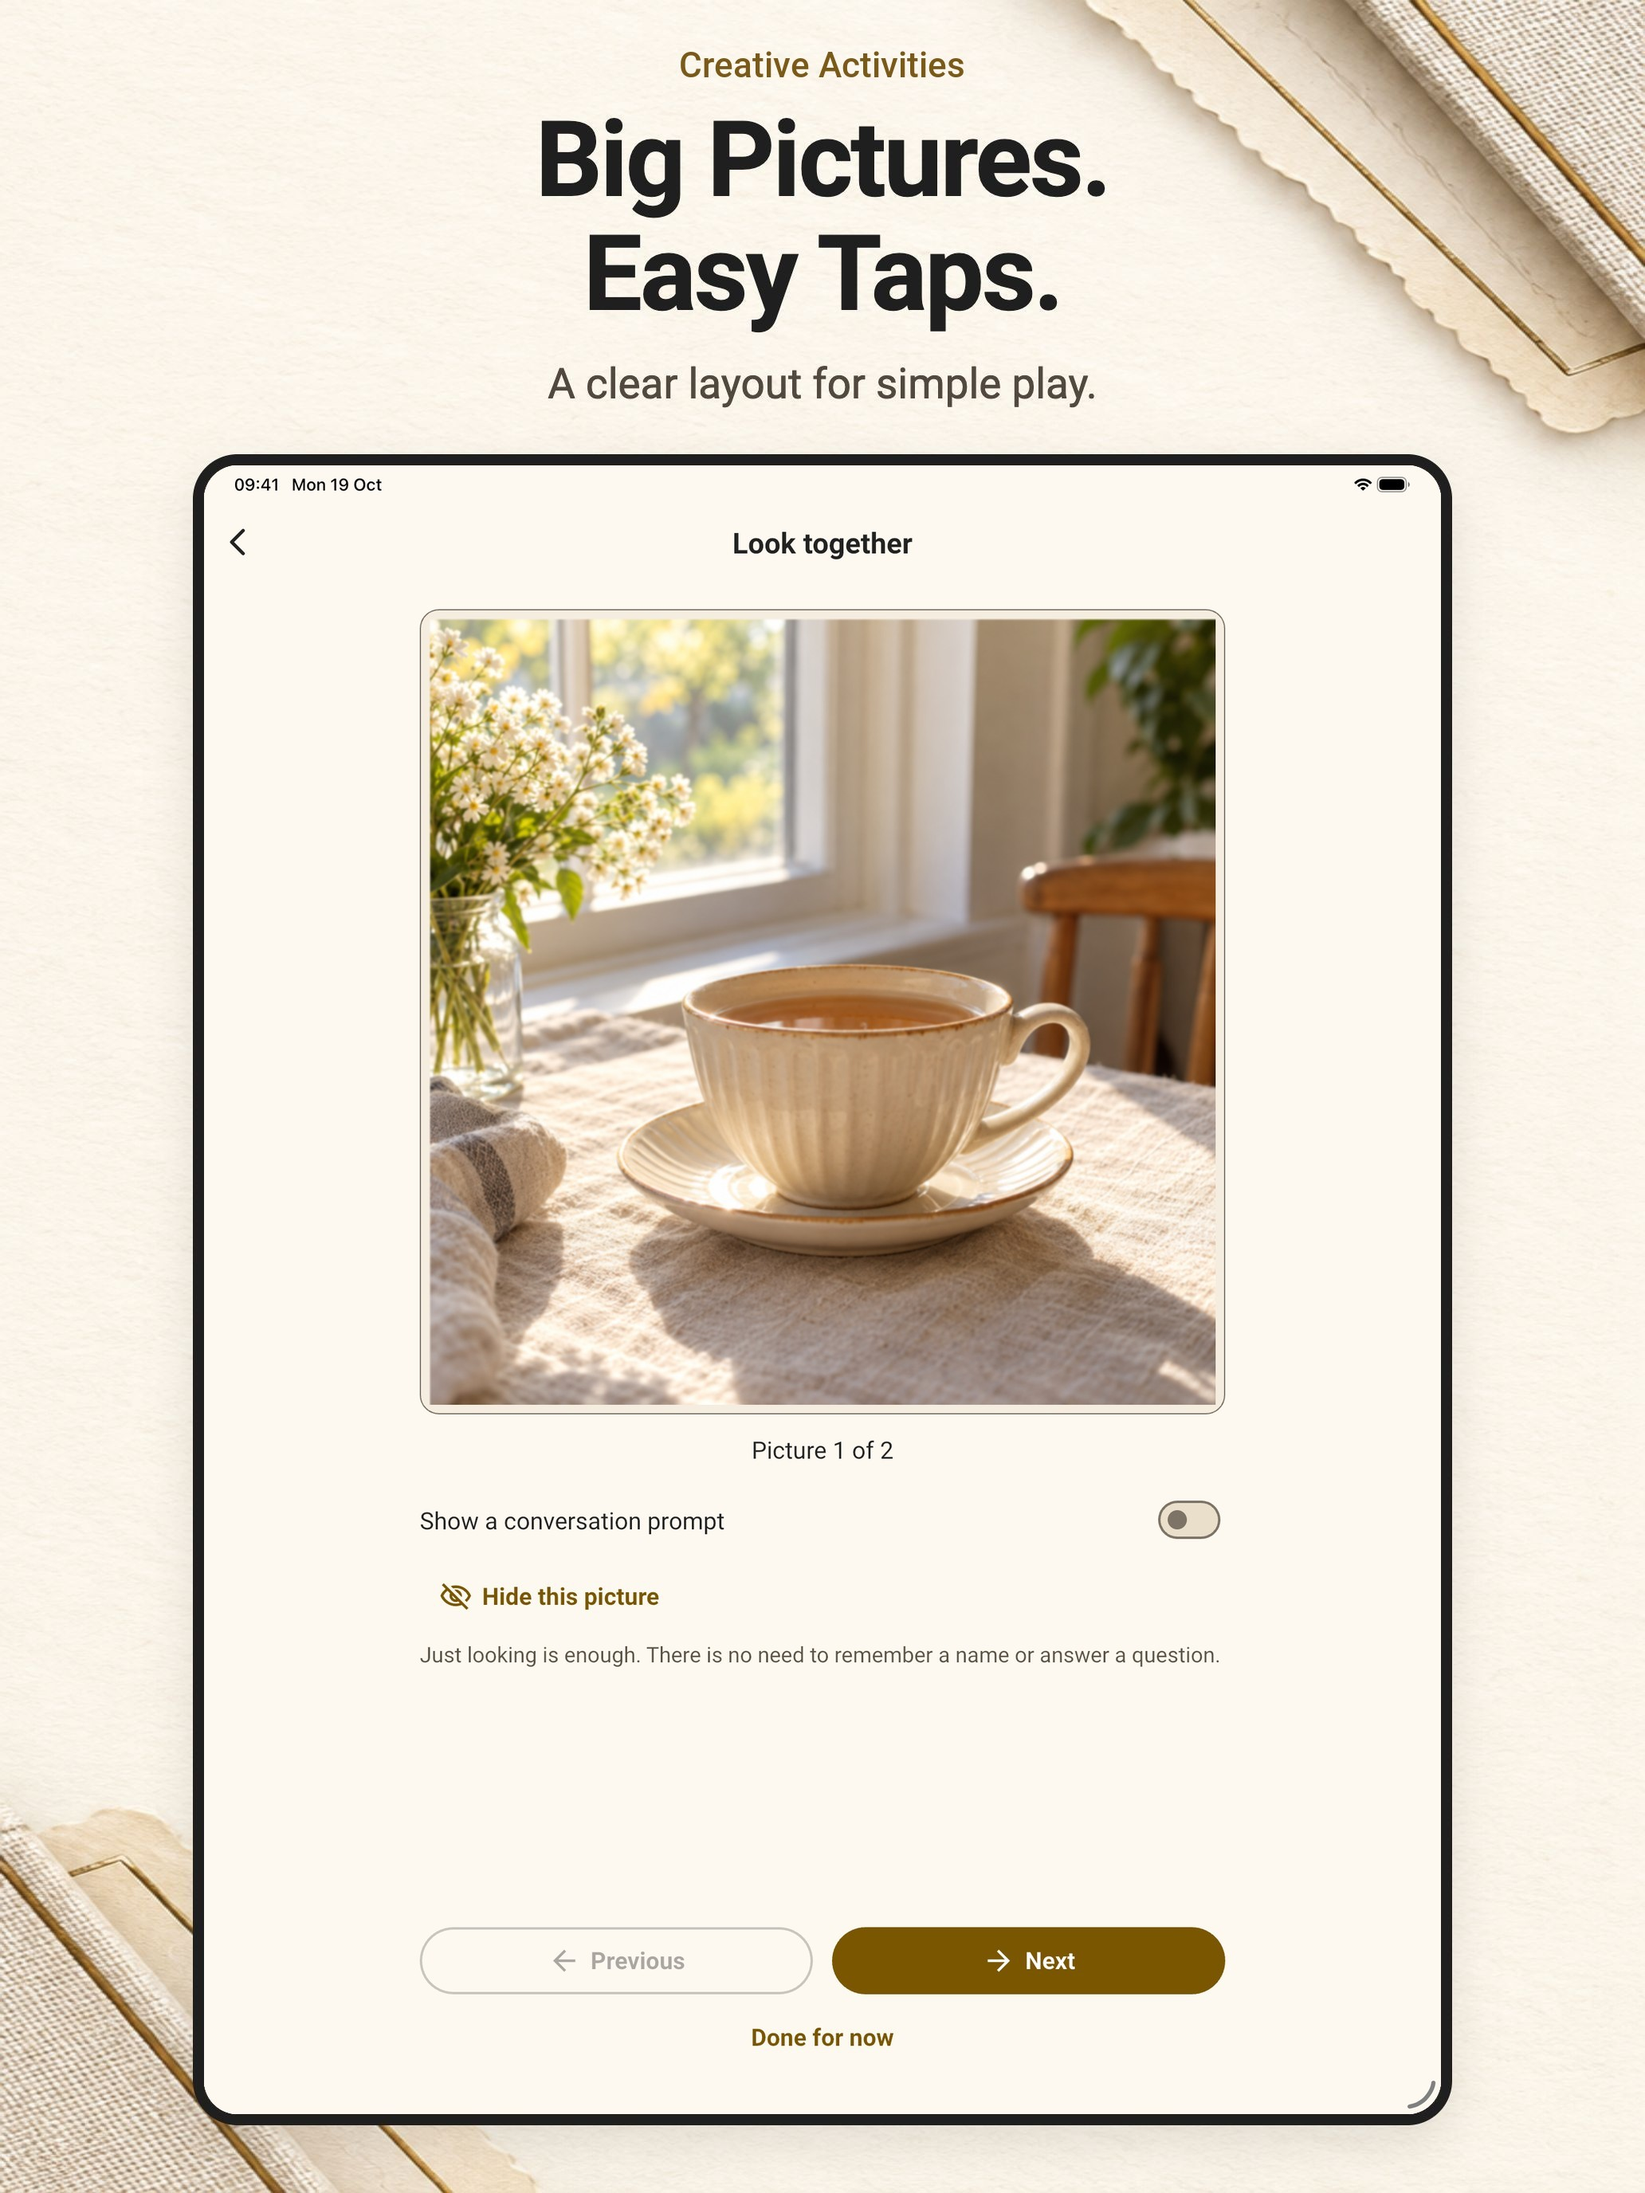
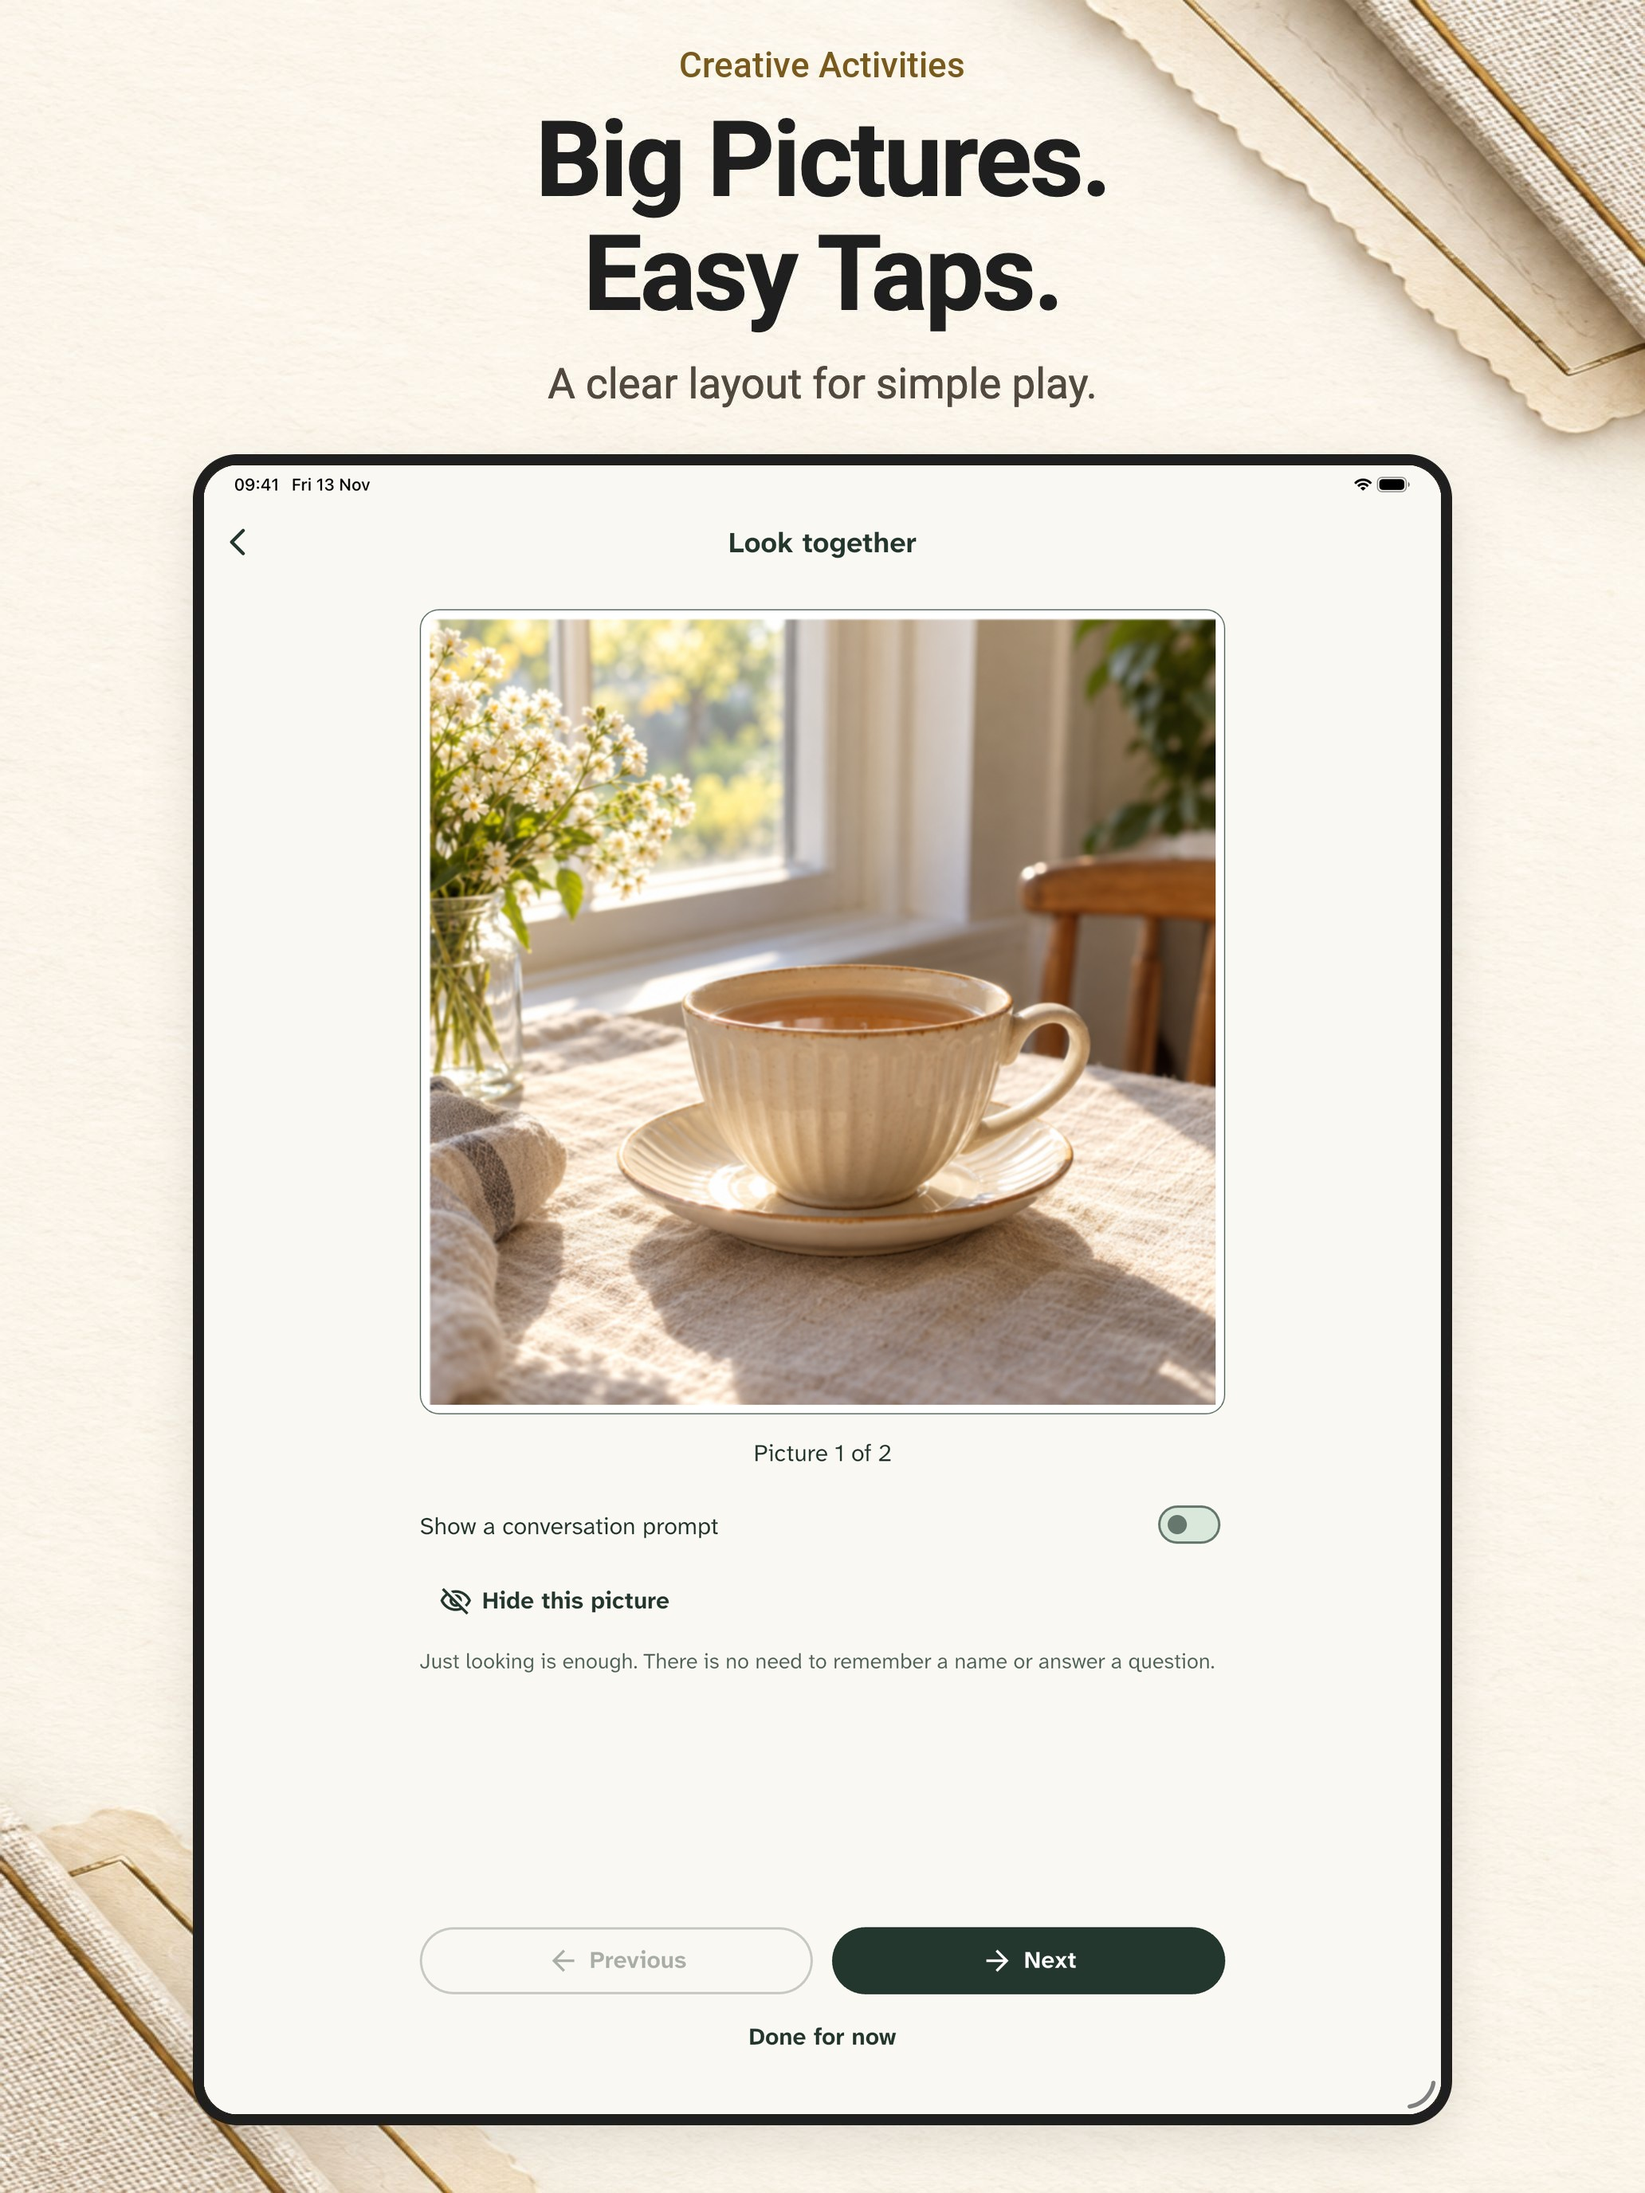
chore: retake iPhone and iPad store screenshots in the new palette
The store frames showed the Golden Moments palette. Recapture all twelve
iOS frames from c6e8e7d on iOS 26.5 simulators and recompose them into the
approved frames. The capture test opened comfort settings through the
Home menu, which the game screen no longer has; it now taps the game
screen's own Comfort settings button. Google Play frames are not retaken.

Claude-Session: https://claude.ai/code/session_01JyKFwLLPRregv73jTxnAch

diff --git a/integration_test/store_screens_test.dart b/integration_test/store_screens_test.dart
@@ -45,7 +45,10 @@ void main() {
       await _hostCapture(tester, '03');
 
       // 5. The comfort sheet over the activity.
-      await tapHomeMenuItem(tester, 'Comfort settings');
+      await tapOn(
+        tester,
+        buttonWithLabel<OutlinedButton>(find.text('Comfort settings')),
+      );
       await waitFor(tester, find.text('Back to the pictures'));
       await _hostCapture(tester, '05');
       await tapOn(tester, find.text('Back to the pictures'));

diff --git a/assets/screenshots/en-US/README.md b/assets/screenshots/en-US/README.md
@@ -4,11 +4,11 @@ Six separate iPhone JPEGs at 1320 by 2868 pixels, six iPad JPEGs at 2064 by 2752
 
 ## Brand label
 
-On 2026-11-13 the small label above each headline changed from "Golden Moments" to "Creative Activities" with `scripts/relabel_store_frames.py --font <Roboto-Medium.ttf>`. Only the label changed. Frame 4 still shows "Picture 1 of 2", which build 14 (1.10.0) no longer displays; retake it before a public submission.
+On 2026-11-13 the small label above each headline changed from "Golden Moments" to "Creative Activities" with `scripts/relabel_store_frames.py --font <Roboto-Medium.ttf>`. Only the label changed. Frame 4's "Picture 1 of 2" is correct: 1.10.0 drops the count only for the included drawings, and family photos keep it.
 
 ## Current captures
 
-The current captures come from `b9e681c`, the album library with family photos shown as cropped prints. They were taken on the iPhone 17 Pro Max and iPad Pro 13-inch (M5) simulators running iOS 26.5, both with `scripts/capture_store_screens.sh`. That script runs `integration_test/store_screens_test.dart`, which drives the real app to each frame and pauses while the screen is saved.
+The iPhone and iPad captures were retaken on 2026-11-13 from `c6e8e7d`, the 1.10.0 source with the Creative Activities palette (ink, canvas, sage, sun) and Atkinson Hyperlegible Next type. The Google Play frames in `android/` still come from `b9e681c` and show the previous palette; retake them before they are used again. Both iOS sets were taken on the iPhone 17 Pro Max and iPad Pro 13-inch (M5) simulators running iOS 26.5, with `scripts/capture_store_screens.sh`. The iPad status bar shows the capture date next to 9:41. That script runs `integration_test/store_screens_test.dart`, which drives the real app to each frame and pauses while the screen is saved.
 
 - **Status bar:** cleared, then set to 9:41 with `xcrun simctl status_bar`. Clearing first matters: a stale override once left a charging battery and "no service" dots.
 - **Debug banner:** hidden for capture only; a release build never shows it.
